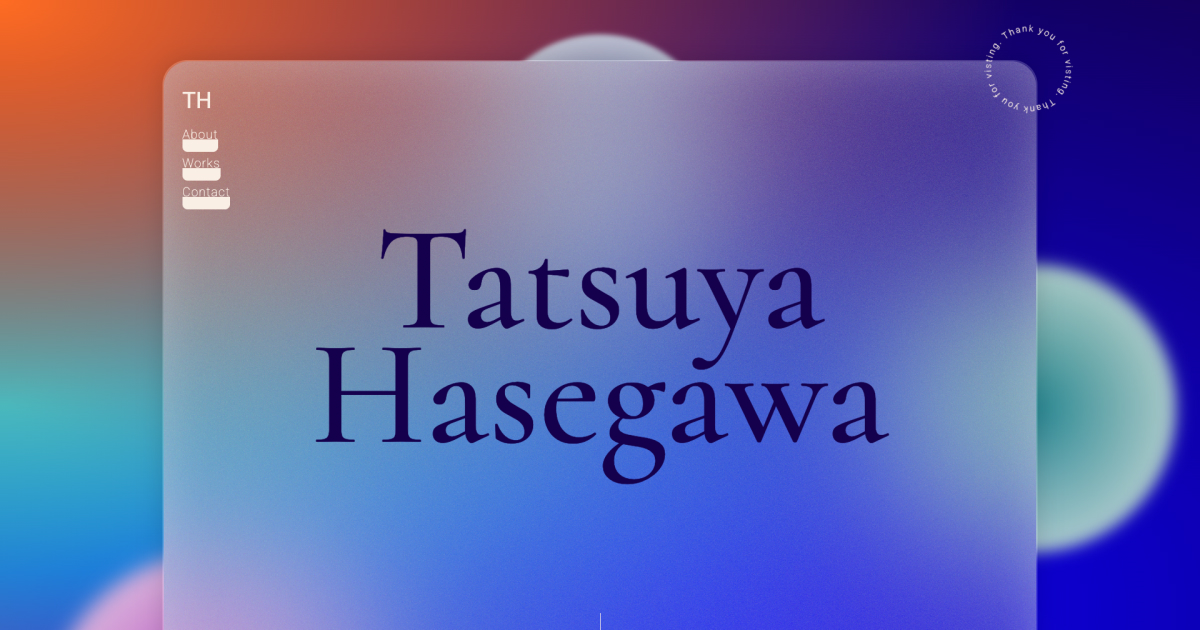
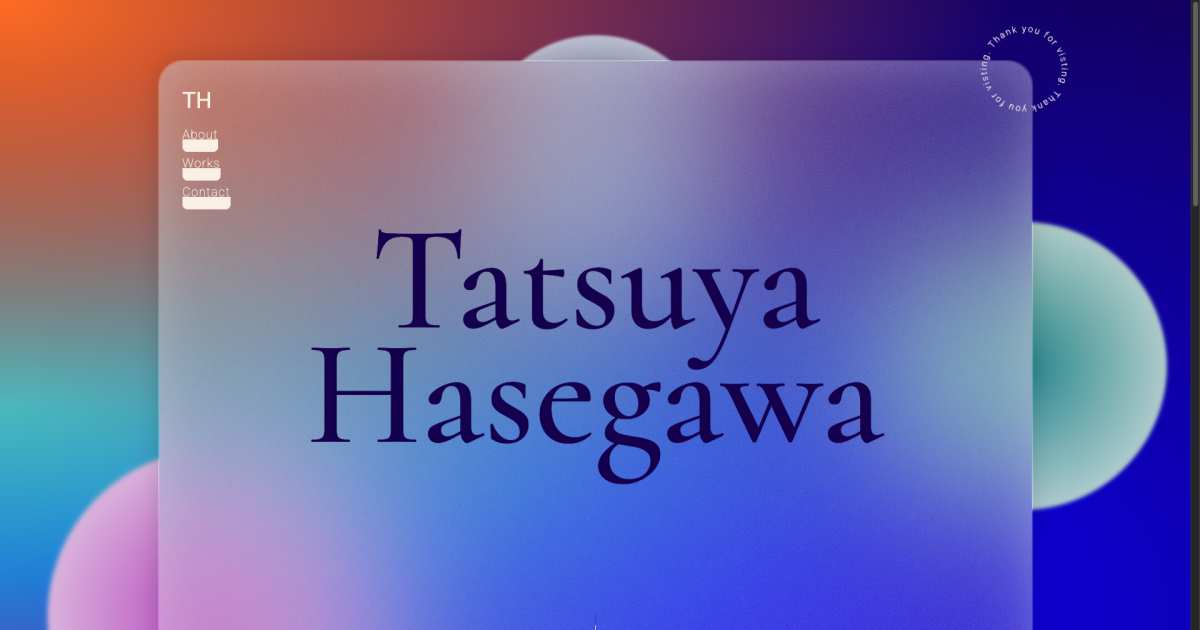
fix: object blur

diff --git a/src/components/object/object2.css.ts b/src/components/object/object2.css.ts
@@ -13,7 +13,7 @@ export const object2 = style({
   width: "24vw",
   height: "24vw",
   borderRadius: "100%",
-  filter: "blur(12px)",
+  filter: "blur(3px)",
   zIndex: -50,
   animationName: animateObject2,
   animationDuration: "16s",

diff --git a/src/components/object/object3.css.ts b/src/components/object/object3.css.ts
@@ -13,7 +13,7 @@ export const object3 = style({
   width: "28vw",
   height: "28vw",
   borderRadius: "100%",
-  filter: "blur(16px)",
+  filter: "blur(4px)",
   zIndex: -50,
   animationName: animateObject3,
   animationDuration: "20s",

diff --git a/src/components/object/object1.css.ts b/src/components/object/object1.css.ts
@@ -13,7 +13,7 @@ export const object1 = style({
   width: "20vw",
   height: "20vw",
   borderRadius: "100%",
-  filter: "blur(4px)",
+  filter: "blur(2px)",
   zIndex: -50,
   animationName: animateObject1,
   animationDuration: "10s",
